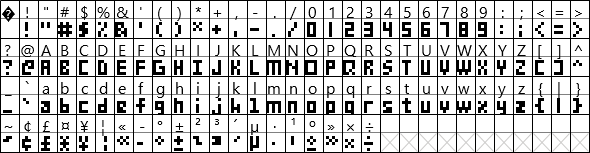
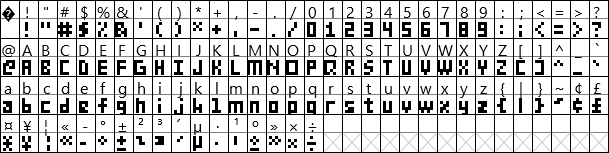
Chunky '1' update

diff --git a/README.md b/README.md
@@ -55,51 +55,11 @@ Everything big and blocky
 
 [Download](https://powernukkit.github.io/DownGit/index.html#/home?directFile=1&url=https://github.com/darkpoet78/MatrixClockFonts/blob/main/8-series/MatrixClock-Chunky8.bdf)
 
-If you want the old super-narrow one ![image](./8-series/MatrixClock-Chunky8-old1.png), edit the Chunky8.bdf file with a text editor and find 'STARTCHAR one' and replace the entry with:
-
-````
-STARTCHAR one
-ENCODING 49
-SWIDTH 250 0
-DWIDTH 2 0
-BBX 1 7 0 0
-BITMAP
-80
-80
-80
-80
-80
-80
-80
-ENDCHAR
-````
-
-
 ### MatrixClock-Chunky8X
 Instead of tails, the characters will take up the full 8 pixel height
 ![image](./8-series/MatrixClock-Chunky8X.png)
 
 [Download](https://powernukkit.github.io/DownGit/index.html#/home?directFile=1&url=https://github.com/darkpoet78/MatrixClockFonts/blob/main/8-series/MatrixClock-Chunky8X.bdf)
-
-If you want the old super-narrow one ![image](./8-series/MatrixClock-Chunky8X-old1.png), edit the Chunky8X.bdf file with a text editor and find 'STARTCHAR one' and replace the entry with:
-
-````
-STARTCHAR one
-ENCODING 49
-SWIDTH 250 0
-DWIDTH 2 0
-BBX 1 8 0 -1
-BITMAP
-80
-80
-80
-80
-80
-80
-80
-80
-ENDCHAR
-````
 
 ### MatrixClock-Light8
 Most characters have been lightened and shaved a bit
@@ -142,6 +102,69 @@ The numbers have been shaved and stylized
 ![image](./6-series/MatrixClock-Light6.png)
 
 [Download](https://powernukkit.github.io/DownGit/index.html#/home?directFile=1&url=https://github.com/darkpoet78/MatrixClockFonts/blob/main/6-series/MatrixClock-Light6.bdf)
+
+## Regarding the '1' character:
+
+In the Chunky fonts, all numbers are the same width but it is possible to use a narrow-width one.  If you wish to replace the wide '1' with a more slim one, instructions are below.
+
+### Chunky8
+
+If you want the narrow one ![image](./8-series/MatrixClock-Chunky8-old1.png), edit the Chunky8.bdf file with a text editor and find 'STARTCHAR one' and replace the entry with:
+````
+STARTCHAR one
+ENCODING 49
+SWIDTH 250 0
+DWIDTH 2 0
+BBX 1 7 0 0
+BITMAP
+80
+80
+80
+80
+80
+80
+80
+ENDCHAR
+````
+
+### Chunky8X
+
+If you want the narrow one ![image](./8-series/MatrixClock-Chunky8X-old1.png), edit the Chunky8X.bdf file with a text editor and find 'STARTCHAR one' and replace the entry with:
+````
+STARTCHAR one
+ENCODING 49
+SWIDTH 250 0
+DWIDTH 2 0
+BBX 1 8 0 -1
+BITMAP
+80
+80
+80
+80
+80
+80
+80
+80
+ENDCHAR
+````
+
+### Chunky6 or LightLetters6
+
+If you want the narrow one ![image](./6-series/MatrixClock-Chunky6-old1.png), edit the Chunky6.bdf or LightLetters6.bdf file with a text editor and find 'STARTCHAR one' and replace the entry with:
+````
+STARTCHAR one
+ENCODING 49
+SWIDTH 333 0
+DWIDTH 2 0
+BBX 1 5 0 0
+BITMAP
+80
+80
+80
+80
+80
+ENDCHAR
+````
 
 ## EspHoMaTriXv2 Fonts
 
